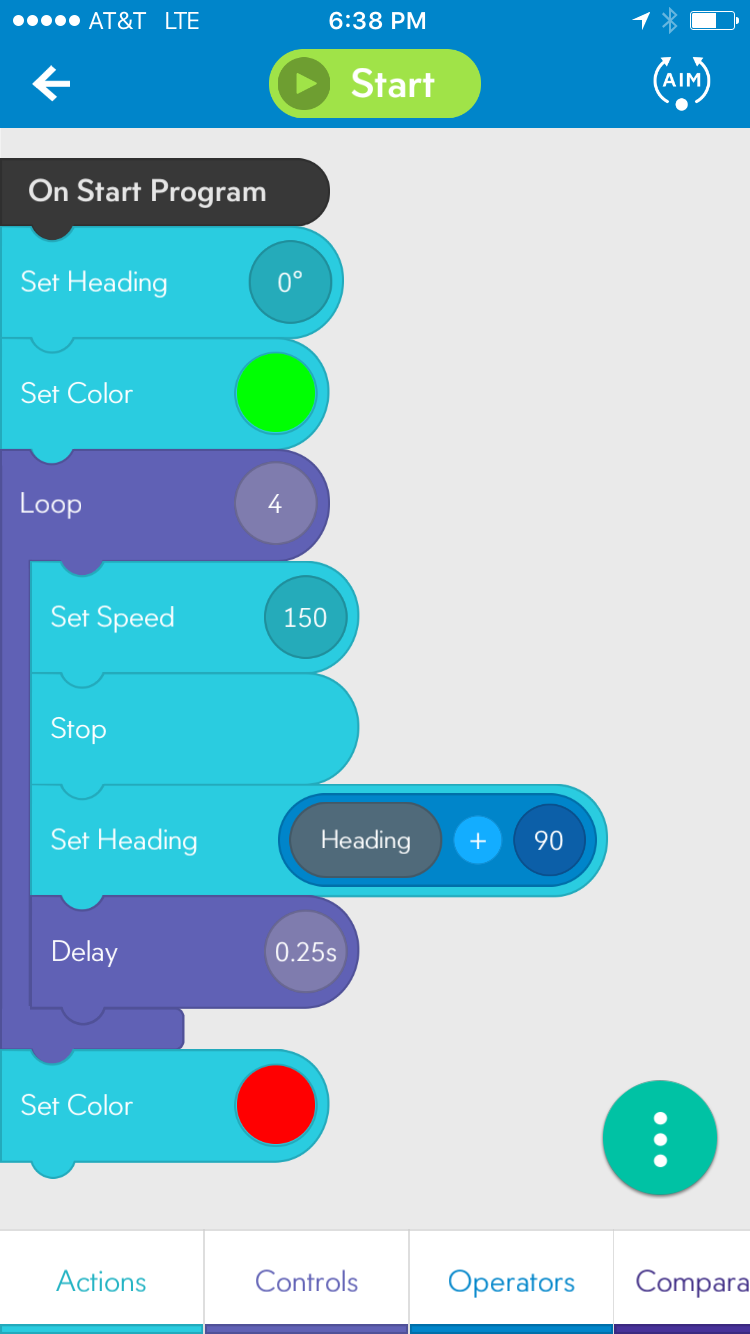
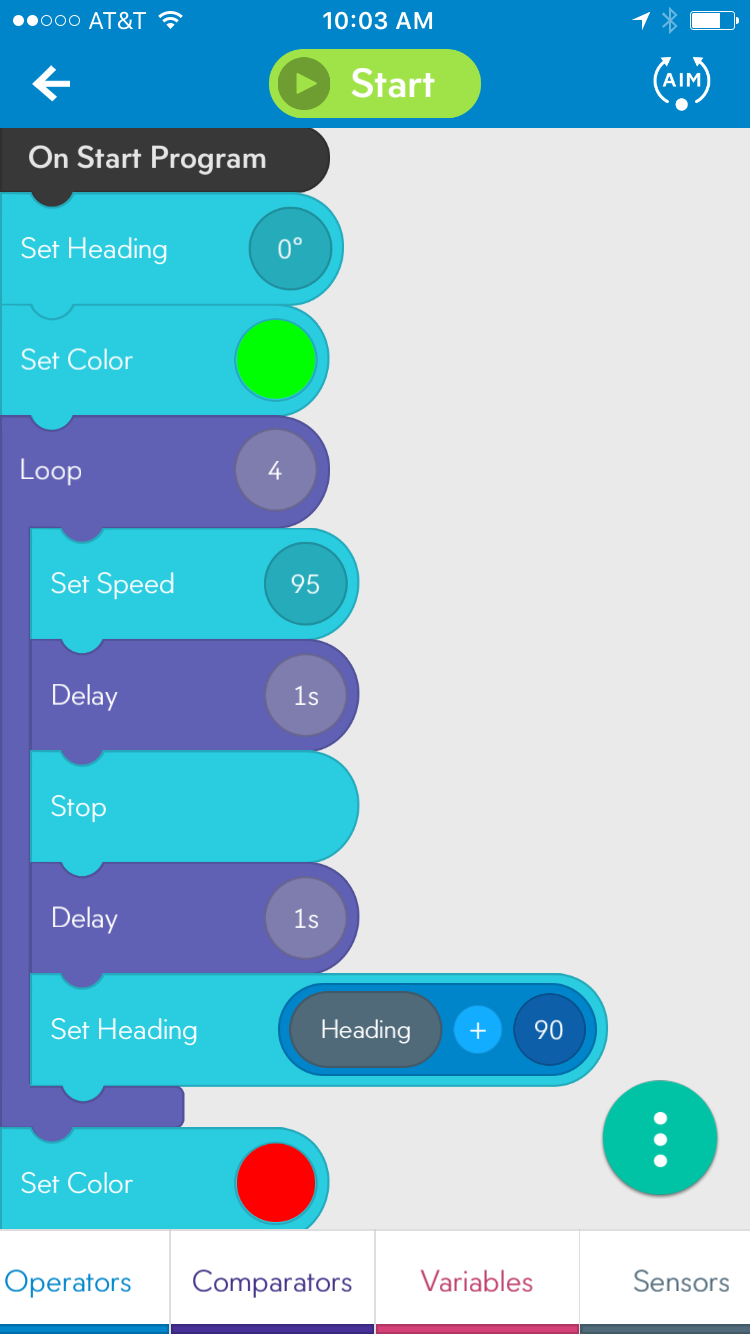
Updated the SquareDance program and description.

diff --git a/Examples/SquareDance.md b/Examples/SquareDance.md
@@ -1,10 +1,11 @@
 ##Square Dance
 
-This program demonstrates the motor control through the applocation of loops.
+This program demonstrates the motor control through the application of loops.
 
 ###Behavior
 
-This program will cycle through the color wheel creating a little "light show".
+This program drives the Ollie or Sphero Robot in a square. The robot will shine a green light (LED) during runtime and turn red once finished executing the square.
 
 ###Key Lesson
 
+The square is a four sided shape comprise of 4 90° angles. By using simple addition, we can iterate though the four headings needed to face the robot 0°, 90°, 180°, and 270°. Understanding the concepts of heading and angle are important to master prior to solving the maze, this session's final challenge, as this is we control the robot's direction.
